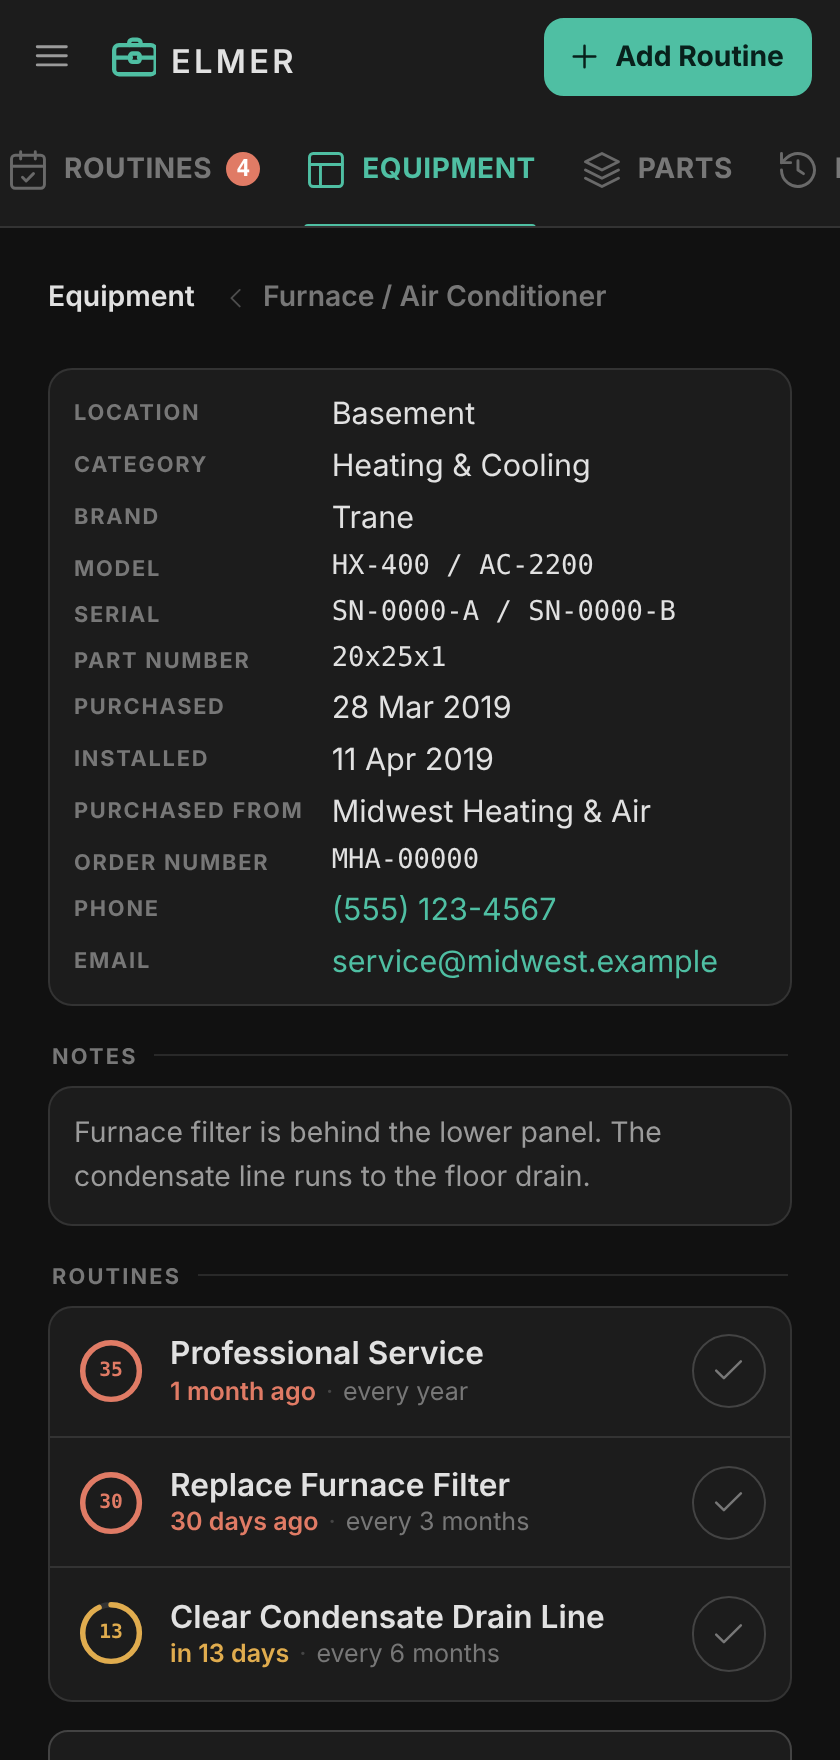
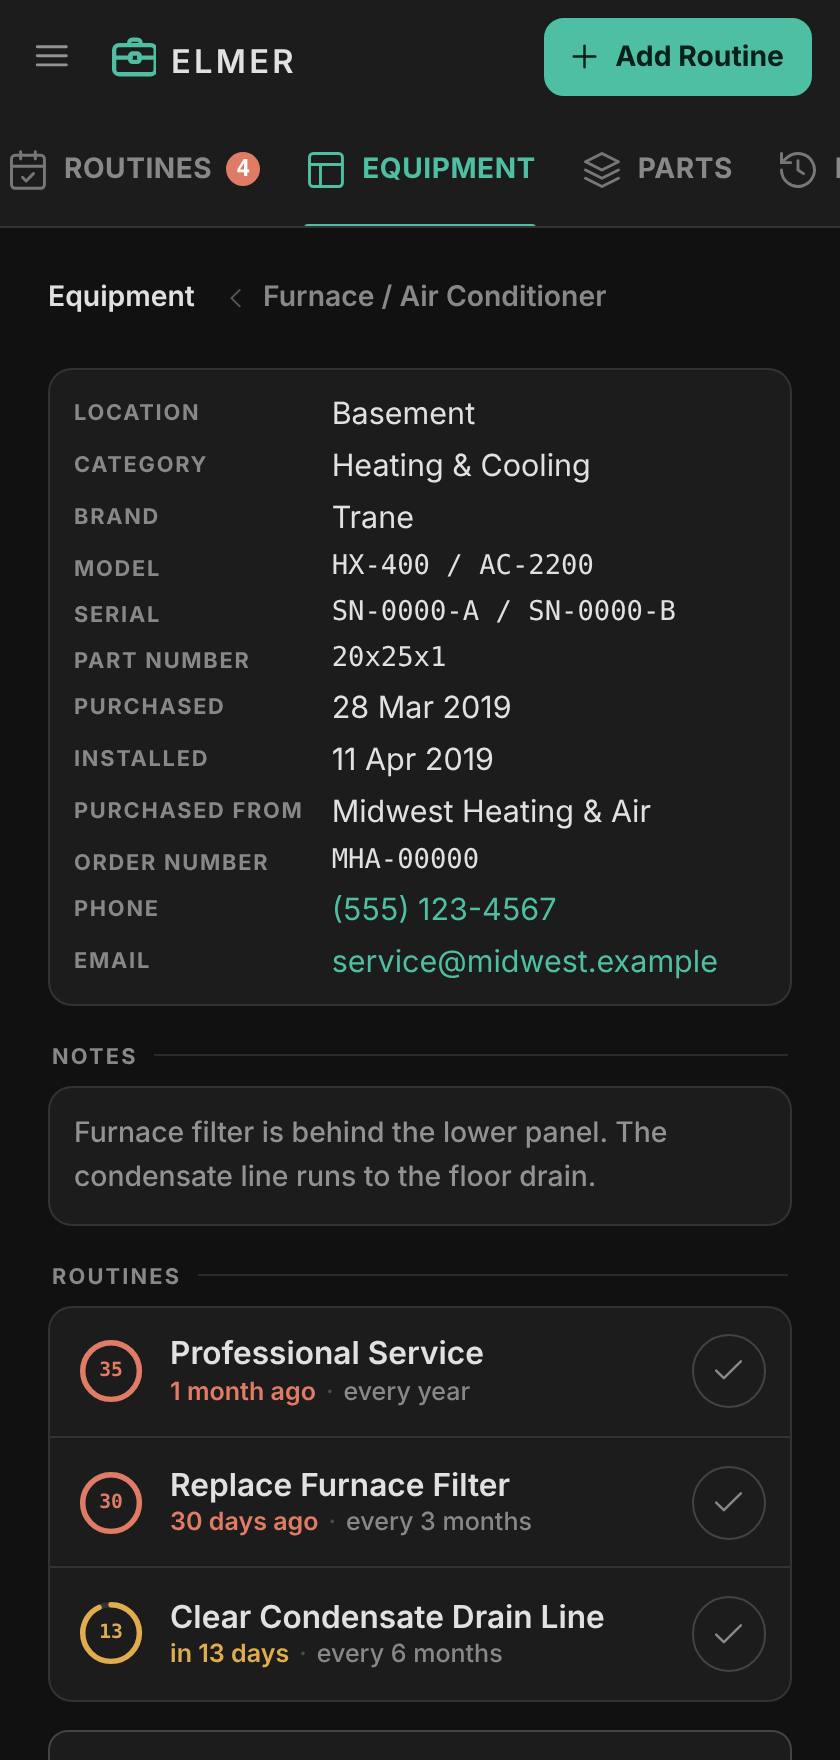
Improve small text contrast and phone weight
Adjust the panel's secondary text colors to be derived from the active theme's ink instead of HA's generic secondary grey so small text keeps readable contrast in both light and dark modes. Also add a narrow-screen font-weight tweak for subtitle text without affecting section headings, and update the verification checks and refreshed panel graphics to cover the new accessibility expectations.

diff --git a/custom_components/elmer/frontend/styles.js b/custom_components/elmer/frontend/styles.js
@@ -29,14 +29,26 @@ export const CSS = `
   --surface: var(--card-background-color, #ffffff);
   --surface-2: var(--secondary-background-color, #f8faf9);
   --ink: var(--primary-text-color, #16211e);
-  --ink-2: var(--secondary-text-color, #4a5a56);
   --line: var(--divider-color, #dee5e2);
+
+  /* Secondary text is mixed from the theme's own ink rather than taken from
+     --secondary-text-color, for the same reason the modal border is: a grey
+     that reads well in Home Assistant's own layout is only matched against
+     that layout. Here it lands on 12px lines in a card, and HA's secondary
+     grey measured 2.83:1 against white — well under the 4.5:1 that small
+     text needs, and the faintest thing on the screen was also the smallest.
+     Mixed from --ink it still follows whatever theme is running, and it
+     cannot land faint. Around 6:1 and 5:1, a visible step apart. The two
+     modes differ because contrast is not linear in lightness. */
+  --ink-2: color-mix(in srgb, var(--ink) 70%, var(--surface));
 
   /* No HA equivalent: a subtle fill and a stronger rule, derived from what
      the theme did give us so they track it. */
   --surface-3: color-mix(in srgb, var(--ink) 6%, var(--surface));
   --line-strong: color-mix(in srgb, var(--ink) 20%, var(--surface));
-  --ink-3: color-mix(in srgb, var(--ink-2) 72%, var(--surface));
+  /* Mixed from --ink too, not from --ink-2: fading an already faded colour
+     is what put the section headings at 2.71:1. */
+  --ink-3: color-mix(in srgb, var(--ink) 65%, var(--surface));
 
   /* --- Elmer's own, overridable in a theme ------------------------------ */
   --accent: var(--elmer-accent, #0f5c4e);
@@ -118,8 +130,9 @@ export const CSS = `
   --surface: var(--card-background-color, #181d1c);
   --surface-2: var(--secondary-background-color, #1e2523);
   --ink: var(--primary-text-color, #e9efec);
-  --ink-2: var(--secondary-text-color, #a2b0ac);
   --line: var(--divider-color, #2a3230);
+  --ink-2: color-mix(in srgb, var(--ink) 60%, var(--surface));
+  --ink-3: color-mix(in srgb, var(--ink) 55%, var(--surface));
 
   --accent: var(--elmer-accent, #4fbfa3);
   --accent-hover: var(--elmer-accent-hover, #62d0b4);
@@ -144,7 +157,6 @@ export const CSS = `
   --surface: #ffffff;
   --surface-2: #f8faf9;
   --ink: #16211e;
-  --ink-2: #4a5a56;
   --line: #dee5e2;
   --card-border: var(--line);
 }
@@ -154,8 +166,9 @@ export const CSS = `
   --surface: #181d1c;
   --surface-2: #1e2523;
   --ink: #e9efec;
-  --ink-2: #a2b0ac;
   --line: #2a3230;
+  --ink-2: color-mix(in srgb, var(--ink) 60%, var(--surface));
+  --ink-3: color-mix(in srgb, var(--ink) 55%, var(--surface));
   --card-border: var(--line);
 }
 
@@ -1423,6 +1436,23 @@ a.btn { text-decoration: none; }
      pairs containing one are stacked; the rest stay side by side so the form
      does not become a very long column. */
   .two:has(input[type="date"]) { grid-template-columns: 1fr; }
+
+  /* A shade more weight in the small secondary text. A phone holds more CSS
+     pixels per line than a monitor but is read further away, in worse light
+     and often one-handed, so the thing that gives out first is stroke rather
+     than size — and the lines that give out are the 12px ones under a title.
+     Medium rather than semibold: enough to hold together at a glance without
+     competing with the title it sits beneath, and the titles themselves are
+     left alone so the hierarchy does not flatten.
+
+     Narrow only, deliberately. The desktop reads well as it is, and weight is
+     a matter of how the screen is held rather than a defect to fix; the
+     contrast floor above is the part that applies at every width.
+
+     Only the lines that are set at normal weight. A blanket rule here reaches
+     the section headings, which are bold caps, and quietly thins them — the
+     opposite of the point. */
+  .row .sub, .hint, .note { font-weight: 500; }
 }
 
 /* The reader's own preference, multiplied on top of whatever the width chose.
